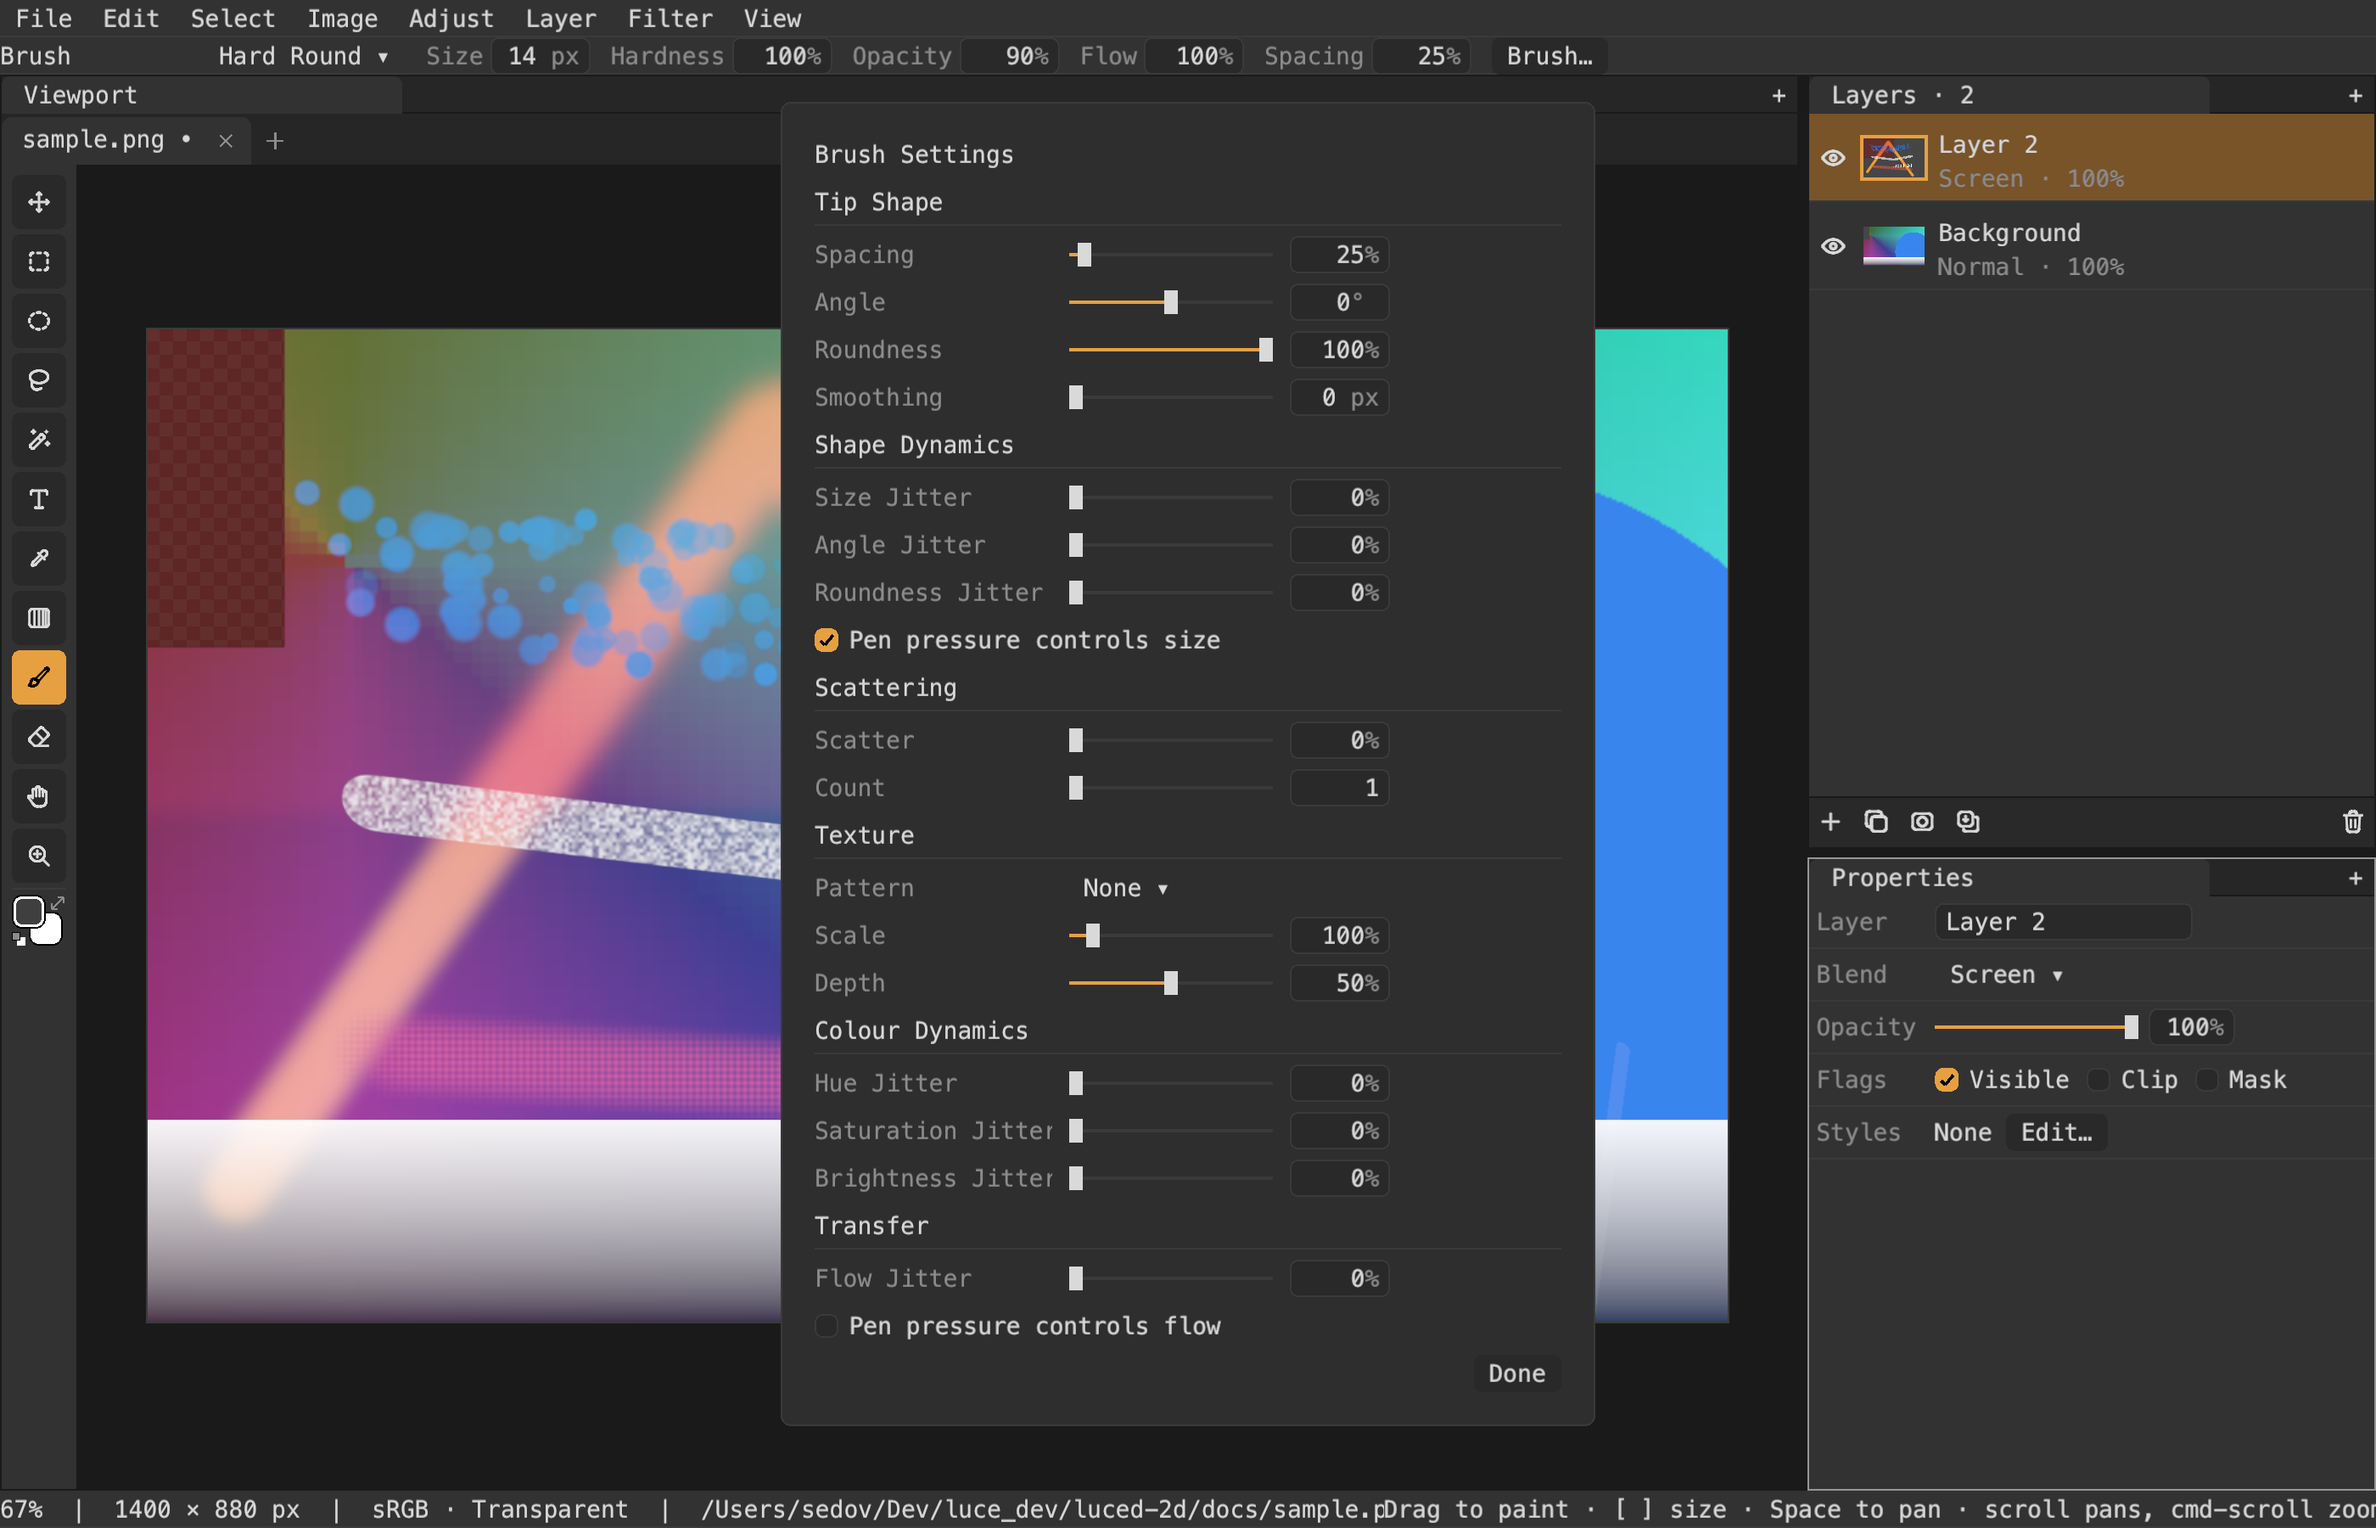
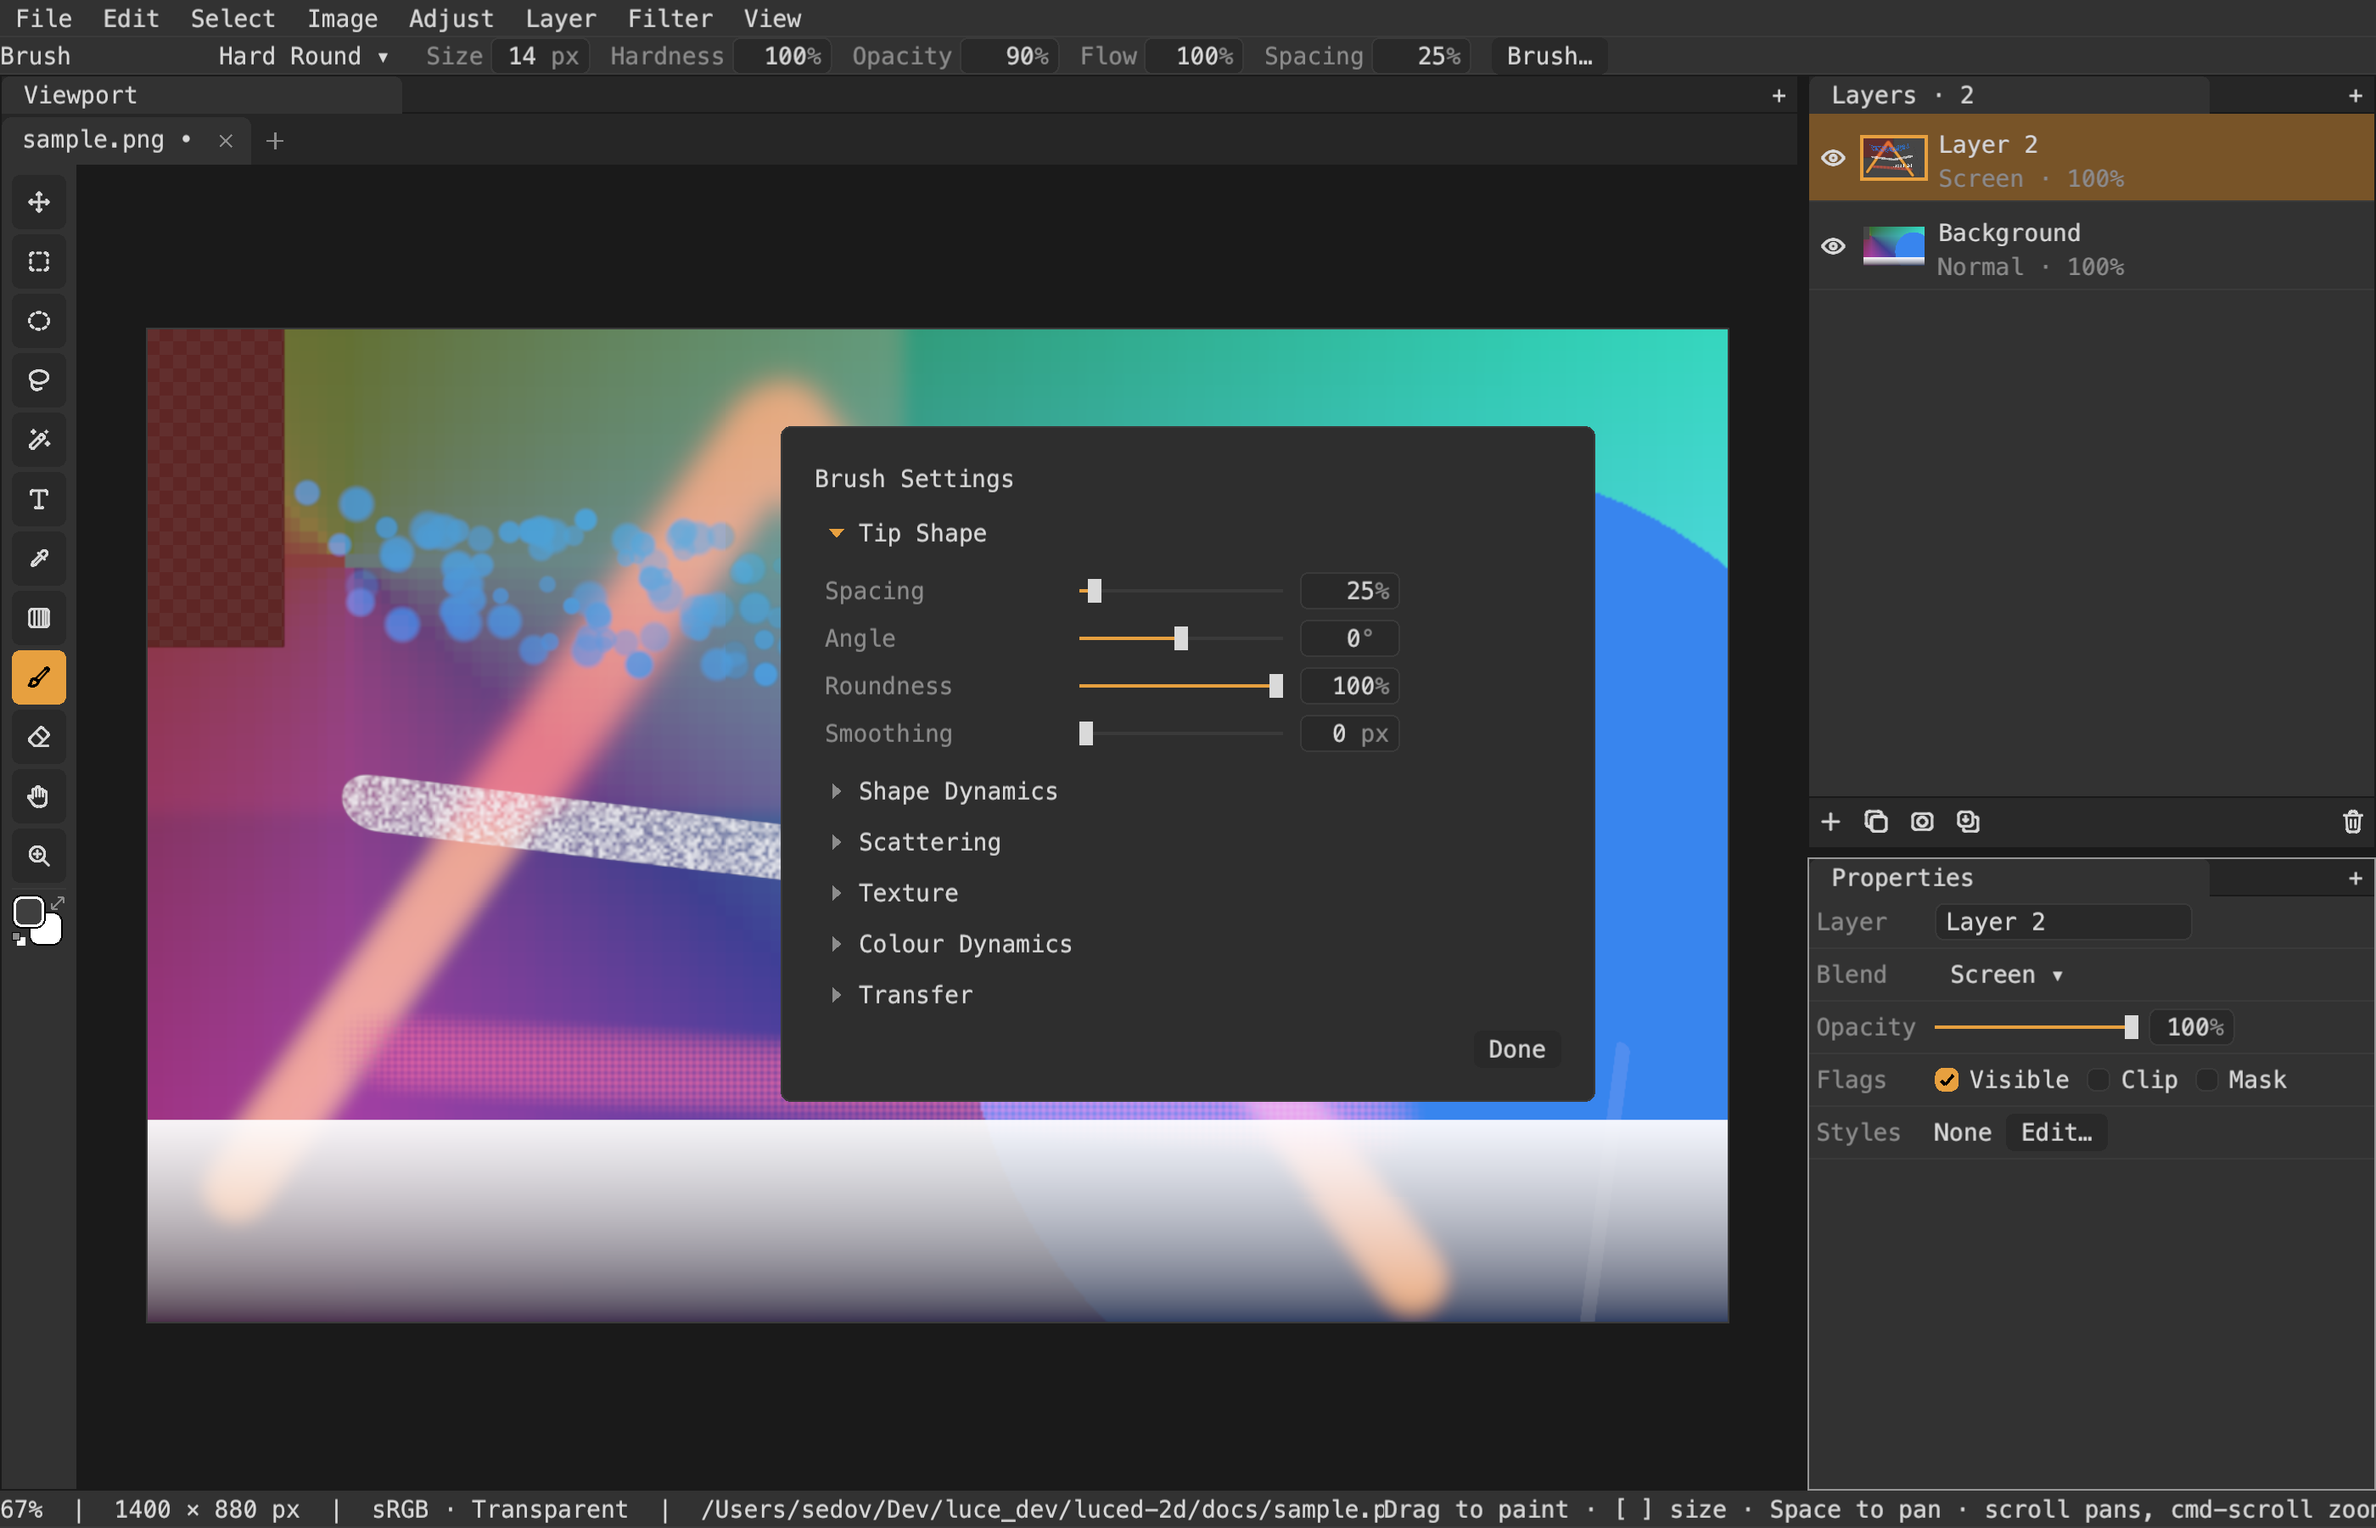
Brush Settings as an accordion
Photoshop's six brush sections open one at a time in luce-ui's Accordion,
with eased heights, so the dialog is a card rather than a wall of rows.
luced-2d 0.1.14 pins luce-ui 0.5.8.

Claude-Session: https://claude.ai/code/session_01KSvf935cywg8wGYHPcyZf9

diff --git a/README.md b/README.md
@@ -93,8 +93,9 @@ python3 tools/preview.py   # macOS: captures a real Metal frame into docs/previe
   luce-color's (`hsl`, `lab`, `space`, `transfer`).
 - `src/panels.luc`: the window: menu bar, contextual tool header (preset
   menu, Size/Hardness/Opacity/Flow/Spacing scrubbers and Brush…, which opens
-  the Brush Settings dialog: Tip Shape, Shape Dynamics, Scattering, Texture,
-  Colour Dynamics, Transfer), then a dock of panes after
+  the Brush Settings dialog — an accordion of Tip Shape, Shape Dynamics,
+  Scattering, Texture, Colour Dynamics and Transfer, one section open at a
+  time), then a dock of panes after
   eleusis-layout (see `docs/ELEUSIS_UI.md`): the Viewport with its tool rail,
   Layers with its actions on a shelf at the bottom, Properties for the
   selected layer (name field, blend menu, opacity slider and field, flag
